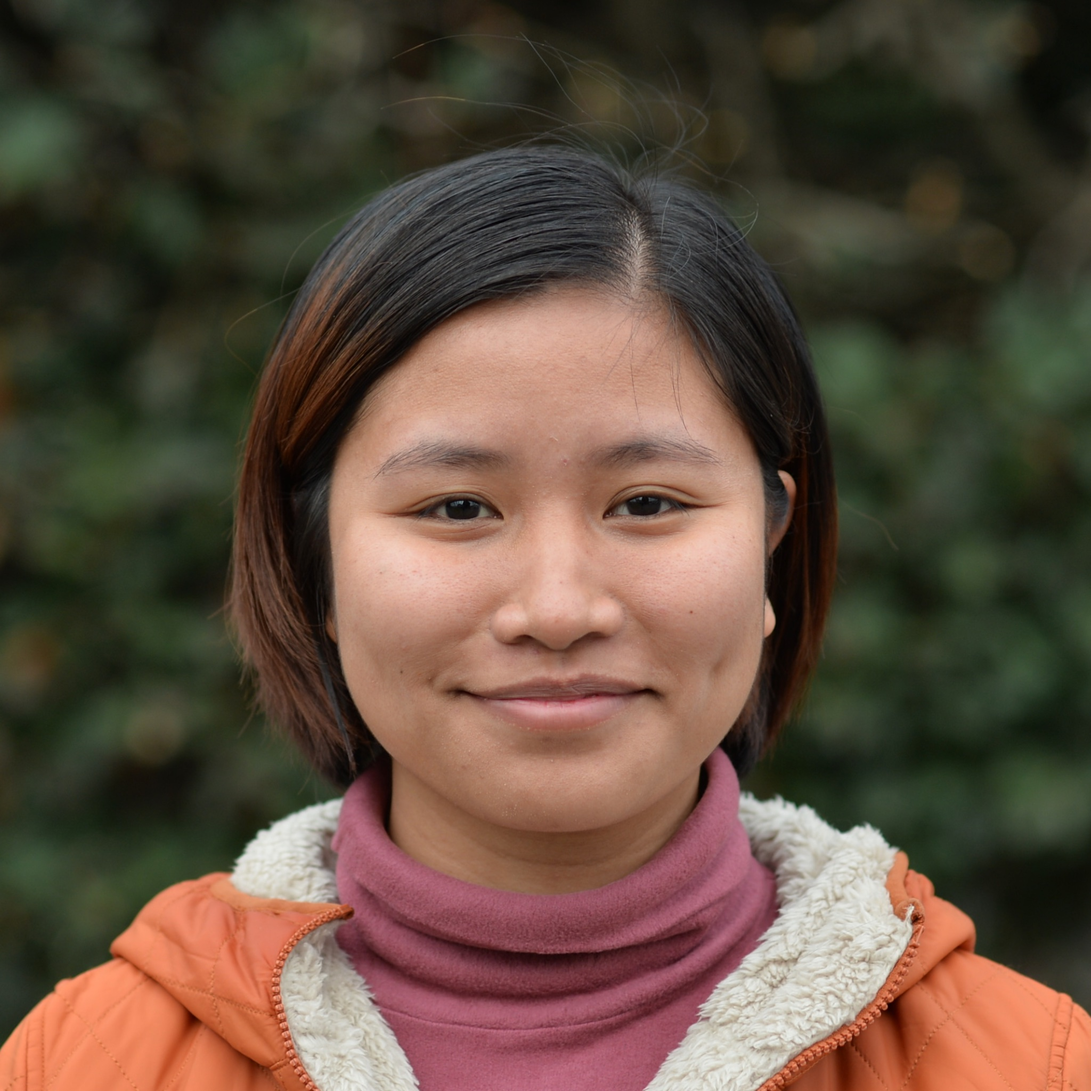
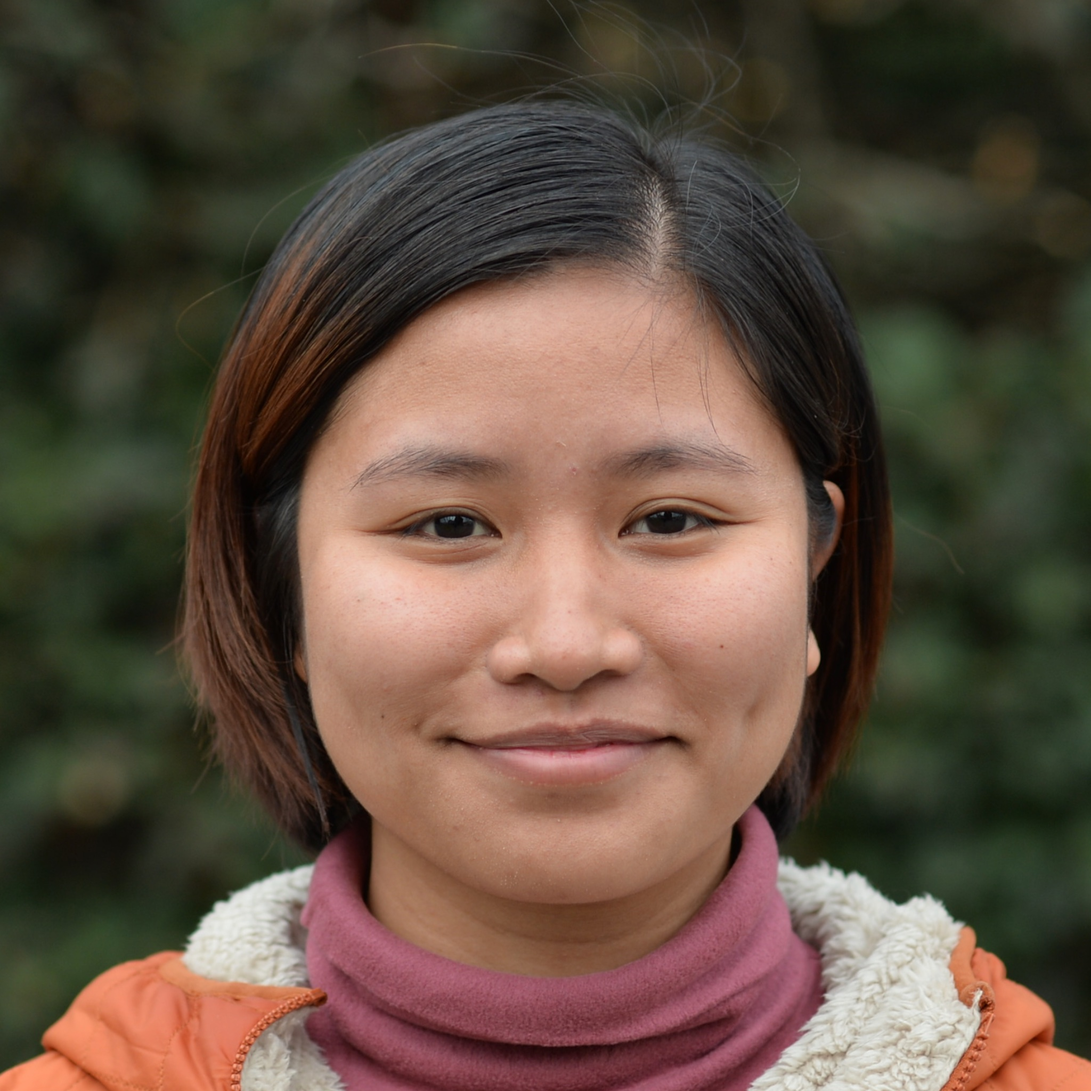
NH: add Hanh

diff --git a/pages/dream-users.md b/pages/dream-users.md
@@ -22,6 +22,12 @@ widget2:
   text: 'PhD, Research scientist at Ocean Next, Grenoble, France. [...]'  
    
 widget3:
+  title: "Hong-Hanh Le"
+  url: "http://www.legos.obs-mip.fr/members/hall"
+  image: team-HHL.jpg
+  text: 'PhD student at LEGOS/University Paul Sabatier, Toulouse, France. [...]'  
+
+widget3:
   title: "DREAM collaborators"
   url: /dream-users/group/
   image: dreamers3.png
